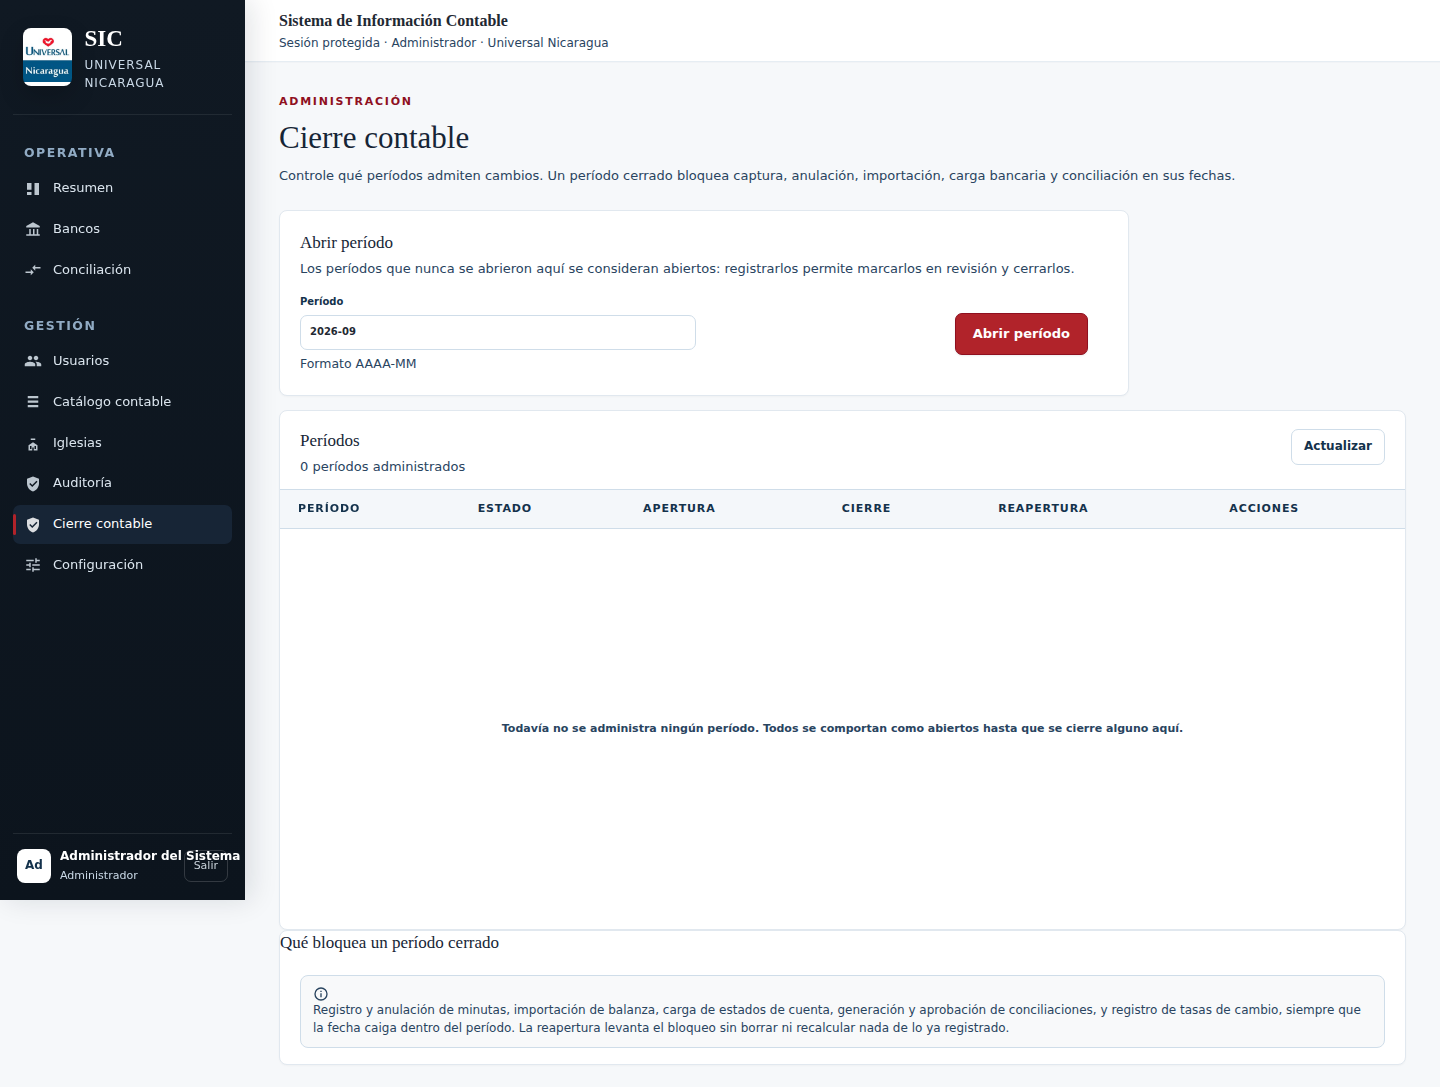
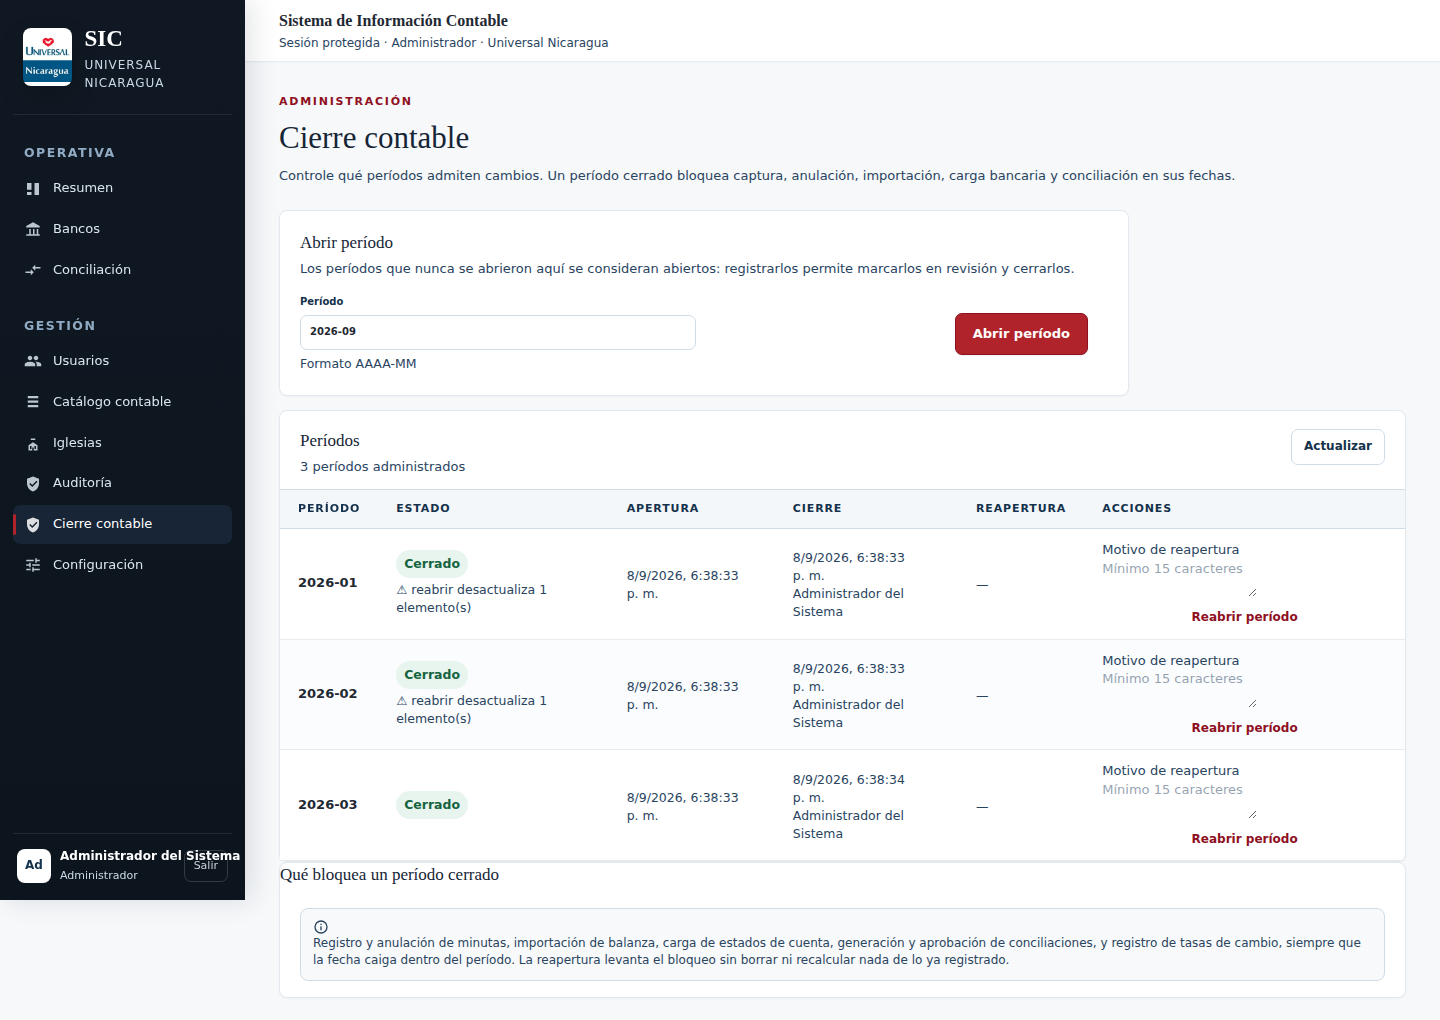
feat: advierte que queda desactualizado al reabrir un periodo
La balanza de comprobacion y el estado de situacion financiera son
archivos importados, no derivados de las minutas: reabrir un periodo
y alterarlo no los recalcula, y los periodos posteriores siguen
arrastrando las cifras viejas. El sistema no lo detectaba ni lo
señalaba.

Agrega impactoDeReapertura, que reune para un periodo cerrado las
balanzas y estados de situacion financiera de ese periodo en
adelante, los periodos posteriores todavia cerrados y las
conciliaciones aprobadas que volverian a admitir cambios.

El listado de periodos lo expone como impactosReapertura, limitado a
quien administra el cierre igual que los impedimentos. La ventana de
confirmacion de la reapertura enumera los elementos afectados, y la
fila del periodo muestra un aviso permanente con el detalle en el
title. Advierte, no bloquea: la decision sigue siendo del
administrador.

El aviso de la fila no usa la clase status porque esa regla aplica
text-transform: capitalize y deformaba el texto.

Añade una prueba contra PostgreSQL que cubre los tres tipos de
impacto y comprueba que la reapertura sigue siendo posible, y que un
periodo sin nada posterior no genera advertencias. Actualiza el
manual con la seccion 13.3 y renumera el capitulo.

Claude-Session: https://claude.ai/code/session_018Yd5DXaZMKTNaeLeKLyEZg

diff --git a/app/modules/CierreContable.tsx b/app/modules/CierreContable.tsx
@@ -1,7 +1,7 @@
 "use client";
 import { type FormEvent, useEffect, useState } from "react";
 import MenuIcon from "../components/MenuIcon";
-import { currentMonth, type ImpedimentoCierre, type PeriodoContable, type RequestConfirmation } from "../shared";
+import { currentMonth, type ImpactoReapertura, type ImpedimentoCierre, type PeriodoContable, type RequestConfirmation } from "../shared";
 
 const MOTIVO_MINIMO = 15;
 
@@ -19,6 +19,7 @@ const fechaLegible = (valor: string | null) => valor ? new Date(valor).toLocaleS
 export default function CierreContable({ notify, requestConfirmation }: { notify: (message: string) => void; requestConfirmation: RequestConfirmation }) {
   const [periodos, setPeriodos] = useState<PeriodoContable[]>([]);
   const [impedimentos, setImpedimentos] = useState<Record<string, ImpedimentoCierre[]>>({});
+  const [impactos, setImpactos] = useState<Record<string, ImpactoReapertura[]>>({});
   const [sugeridos, setSugeridos] = useState<string[]>([]);
   const [motivos, setMotivos] = useState<Record<string, string>>({});
   const [error, setError] = useState("");
@@ -29,10 +30,11 @@ export default function CierreContable({ notify, requestConfirmation }: { notify
     setLoading(true);
     try {
       const response = await fetch("/api/periodos");
-      const data = await response.json().catch(() => ({})) as { periodos?: PeriodoContable[]; impedimentos?: Record<string, ImpedimentoCierre[]>; periodosConActividad?: string[]; error?: string };
+      const data = await response.json().catch(() => ({})) as { periodos?: PeriodoContable[]; impedimentos?: Record<string, ImpedimentoCierre[]>; impactosReapertura?: Record<string, ImpactoReapertura[]>; periodosConActividad?: string[]; error?: string };
       if (!response.ok) return setError(data.error ?? "No se pudo cargar el control de períodos");
       setPeriodos(data.periodos ?? []);
       setImpedimentos(data.impedimentos ?? {});
+      setImpactos(data.impactosReapertura ?? {});
       setSugeridos(data.periodosConActividad ?? []);
       setError("");
     } catch {
@@ -98,9 +100,15 @@ export default function CierreContable({ notify, requestConfirmation }: { notify
     if (motivo.length < MOTIVO_MINIMO) {
       return setError(`Escriba el motivo de la reapertura de ${periodo} con al menos ${MOTIVO_MINIMO} caracteres antes de continuar`);
     }
+    const afectados = impactos[periodo] ?? [];
+    // La balanza y el estado de situación financiera son archivos importados: reabrir no los
+    // recalcula. Se enumeran aquí para que quien reabre sepa qué deberá reimportar después.
+    const advertencia = afectados.length
+      ? ` Quedarán desactualizados: ${afectados.map(item => `${item.motivo} — ${item.detalle}`).join(" ")}`
+      : " No hay balanzas, estados financieros ni períodos posteriores que queden desactualizados.";
     requestConfirmation({
       title: `Reabrir el período ${periodo}`,
-      message: `Se levantará el bloqueo de ${periodo} y volverá a admitir cambios contables. No se borra ni se recalcula nada de lo ya registrado. Su usuario, la fecha y el motivo quedarán en auditoría de forma permanente.`,
+      message: `Se levantará el bloqueo de ${periodo} y volverá a admitir cambios contables. No se borra ni se recalcula nada de lo ya registrado.${advertencia} Su usuario, la fecha y el motivo quedarán en auditoría de forma permanente.`,
       confirmLabel: "Reabrir período",
       isDanger: true,
       onConfirm: () => accion(periodo, "reabrir", motivo),
@@ -134,6 +142,10 @@ export default function CierreContable({ notify, requestConfirmation }: { notify
             <td>
               <span className={estadoClase(item.estado)}>{etiquetaEstado[item.estado]}</span>
               {bloqueos.length && item.estado !== "cerrado" ? <small className="status pending">{bloqueos.length} pendiente(s) para cerrar</small> : null}
+              {/* Sin la clase `status`: esa regla aplica text-transform: capitalize y deforma el texto. */}
+              {item.estado === "cerrado" && (impactos[item.periodo] ?? []).length
+                ? <small title={(impactos[item.periodo] ?? []).map(impacto => impacto.motivo).join("; ")}>⚠ reabrir desactualiza {(impactos[item.periodo] ?? []).length} elemento(s)</small>
+                : null}
             </td>
             <td><small>{fechaLegible(item.fechaApertura)}</small></td>
             <td>{item.estado === "cerrado"

diff --git a/lib/periodos.ts b/lib/periodos.ts
@@ -1,6 +1,6 @@
-import { and, asc, eq, inArray, ne, sql } from "drizzle-orm";
+import { and, asc, eq, gt, gte, inArray, ne, sql } from "drizzle-orm";
 import type { getDb } from "../db";
-import { conciliacionesBancarias, importacionesBalanza, periodosContables } from "../db/schema";
+import { conciliacionesBancarias, importacionesBalanza, importacionesSituacionFinanciera, periodosContables } from "../db/schema";
 
 type Db = ReturnType<typeof getDb>;
 
@@ -162,6 +162,61 @@ export async function reabrirPeriodo(db: Db, periodo: string, usuario: { id: str
     .where(eq(periodosContables.periodo, periodo))
     .returning();
   return fila ?? null;
+}
+
+export type ImpactoReapertura = { motivo: string; detalle: string };
+
+/**
+ * Qué queda desactualizado al reabrir un período. La balanza y el estado de situación financiera
+ * son archivos importados, no derivados de las minutas: alterar un período ya cerrado no los
+ * recalcula, y los períodos posteriores arrastran las cifras viejas. Esta función no bloquea nada;
+ * solo permite advertirlo antes de confirmar, para que la reapertura sea una decisión informada.
+ */
+export async function impactoDeReapertura(db: Db, periodo: string): Promise<ImpactoReapertura[]> {
+  const [balanzas, estadosFinancieros, posterioresCerrados, conciliaciones] = await Promise.all([
+    db.select({ periodo: importacionesBalanza.periodo, archivo: importacionesBalanza.archivoNombre })
+      .from(importacionesBalanza).where(gte(importacionesBalanza.periodo, periodo)),
+    db.select({ periodo: importacionesSituacionFinanciera.periodo, archivo: importacionesSituacionFinanciera.archivoNombre })
+      .from(importacionesSituacionFinanciera).where(gte(importacionesSituacionFinanciera.periodo, periodo)),
+    db.select({ periodo: periodosContables.periodo })
+      .from(periodosContables)
+      .where(and(gt(periodosContables.periodo, periodo), eq(periodosContables.estado, "cerrado")))
+      .orderBy(asc(periodosContables.periodo)),
+    db.select({ id: conciliacionesBancarias.id, cuenta: conciliacionesBancarias.cuentaBancariaNumero })
+      .from(conciliacionesBancarias)
+      .where(and(eq(conciliacionesBancarias.periodo, periodo), eq(conciliacionesBancarias.estado, "aprobada"))),
+  ]);
+
+  const impactos: ImpactoReapertura[] = [];
+
+  if (balanzas.length) {
+    const periodos = [...new Set(balanzas.map(fila => fila.periodo))].sort();
+    impactos.push({
+      motivo: "Balanzas de comprobación que quedarán desactualizadas",
+      detalle: `${balanzas.length} importación(es) de ${periodos.join(", ")}. Son archivos importados: no se recalculan solos. Si altera ${periodo}, vuelva a importarlas.`,
+    });
+  }
+  if (estadosFinancieros.length) {
+    const periodos = [...new Set(estadosFinancieros.map(fila => fila.periodo))].sort();
+    impactos.push({
+      motivo: "Estados de situación financiera que quedarán desactualizados",
+      detalle: `${estadosFinancieros.length} importación(es) de ${periodos.join(", ")}. Son la fuente del flujo de efectivo: reimpórtelos y regenere los reportes afectados.`,
+    });
+  }
+  if (posterioresCerrados.length) {
+    impactos.push({
+      motivo: "Períodos posteriores ya cerrados",
+      detalle: `${posterioresCerrados.map(fila => fila.periodo).join(", ")}. Siguen bloqueados y arrastran las cifras de ${periodo} anteriores al cambio. Si el ajuste los afecta, habrá que reabrirlos también.`,
+    });
+  }
+  if (conciliaciones.length) {
+    impactos.push({
+      motivo: "Conciliaciones aprobadas del período",
+      detalle: `${conciliaciones.length} conciliación(es) aprobada(s): ${conciliaciones.map(fila => fila.cuenta).join(", ")}. Volverán a admitir cambios; si toca sus minutas, deberá revisarlas y aprobarlas de nuevo.`,
+    });
+  }
+
+  return impactos;
 }
 
 /** Períodos con actividad contable registrada, para sugerir cuáles administrar. */

diff --git a/app/api/periodos/route.ts b/app/api/periodos/route.ts
@@ -1,7 +1,7 @@
 import { getDb } from "../../../db";
 import { registrarAuditoria } from "../../../lib/auditoria";
 import { jsonError, puede, usuarioDesdeRequest } from "../../../lib/auth";
-import { abrirPeriodo, esPeriodoValido, impedimentosParaCerrar, listarPeriodos, periodosConActividad } from "../../../lib/periodos";
+import { abrirPeriodo, esPeriodoValido, impactoDeReapertura, impedimentosParaCerrar, listarPeriodos, periodosConActividad } from "../../../lib/periodos";
 import { codigoPostgres } from "../../../lib/security";
 
 type PeriodoPayload = { periodo?: string };
@@ -24,10 +24,18 @@ export async function GET(request: Request) {
         periodos.filter(fila => fila.estado !== "cerrado").map(async fila => [fila.periodo, await impedimentosParaCerrar(db, fila.periodo)] as const),
       ))
       : {};
+    // Qué queda desactualizado si se reabre. Solo aplica a los períodos cerrados, que son los
+    // únicos que ofrecen la acción de reapertura.
+    const impactosReapertura = puedeAdministrar
+      ? Object.fromEntries(await Promise.all(
+        periodos.filter(fila => fila.estado === "cerrado").map(async fila => [fila.periodo, await impactoDeReapertura(db, fila.periodo)] as const),
+      ))
+      : {};
 
     return Response.json({
       periodos,
       impedimentos,
+      impactosReapertura,
       periodosConActividad: puedeAdministrar ? await periodosConActividad(db) : [],
       puedeAdministrar,
     }, { headers: { "Cache-Control": "no-store" } });

diff --git a/app/shared.ts b/app/shared.ts
@@ -8,6 +8,8 @@ export type Conciliacion = { id: string; reporteId: string; cuentaBancariaNumero
 export type EstadoPeriodo = "abierto" | "revision" | "cerrado";
 export type PeriodoContable = { periodo: string; estado: EstadoPeriodo; fechaApertura: string; fechaCierre: string | null; cerradoPor: string | null; cerradoPorNombre: string | null; reabiertoPor: string | null; reabiertoPorNombre: string | null; reabiertoEn: string | null; motivoReapertura: string | null; creadoEn: string; actualizadoEn: string };
 export type ImpedimentoCierre = { motivo: string; detalle: string };
+/** Lo que queda desactualizado al reabrir un período; se muestra antes de confirmar, no bloquea. */
+export type ImpactoReapertura = { motivo: string; detalle: string };
 /** Un período solo bloquea cuando está explícitamente cerrado; si no está en la lista, está abierto. */
 export const periodoCerrado = (periodos: PeriodoContable[], periodo: string) =>
   periodos.some(item => item.periodo === periodo && item.estado === "cerrado");

diff --git a/docs/manual-usuario.md b/docs/manual-usuario.md
@@ -42,7 +42,7 @@
 10. Cierre mensual paso a paso
 11. Conciliar una cuenta en dólares
 12. Corregir un registro ya ingresado
-13. Reabrir un período cerrado
+13. Reabrir un período cerrado — 13.1 Cuándo se justifica · 13.2 Procedimiento · 13.3 La advertencia de impacto · 13.4 Qué ocurre al reabrir · 13.5 Después de reabrir
 
 **PARTE IV — OPERACIÓN Y SOPORTE**
 14. Solución de problemas — 14.1 Antes de escalar · 14.2 Cómo leer un mensaje de error · 14.3 Acceso · 14.4 Minutas · 14.5 Estados de cuenta · 14.6 Conciliación · 14.7 Importaciones · 14.8 Períodos · 14.9 Tasas de cambio · 14.10 Administración · 14.11 Reportes · 14.12 Errores del sistema · 14.13 Escalamiento · 14.14 Qué incluir al reportar
@@ -729,7 +729,7 @@ Menú → **Cierre contable**. Controla qué períodos admiten cambios.
 
 **Qué bloquea un período cerrado:** registro y anulación de minutas, importación de balanza, carga de estados de cuenta, generación y aprobación de conciliaciones, y registro de tasas de cambio — siempre que la fecha caiga dentro del período.
 
-**Reabrir:** exige un **motivo de al menos 15 caracteres**. El procedimiento completo está en el **capítulo 13**.
+**Reabrir:** exige un **motivo de al menos 15 caracteres**. Antes de confirmar, el sistema enumera qué balanzas, estados financieros, períodos posteriores y conciliaciones aprobadas quedarán desactualizados. Es una advertencia, no un bloqueo. El procedimiento completo está en el **capítulo 13**.
 
 ---
 
@@ -1036,11 +1036,32 @@ El sistema confirma: *"Minuta anulada y registrada en auditoría"*. El asiento q
 2. Ubique el período con estado **Cerrado**.
 3. En la columna **Acciones**, escriba el **Motivo de reapertura** en el cuadro de texto. Mínimo **15 caracteres**.
 4. Presione **Reabrir período**.
-5. Lea la ventana de confirmación y confirme.
+5. **Lea la advertencia de la ventana de confirmación** antes de confirmar. Ver 13.3.
 
 El sistema informa: *"Período AAAA-MM reabierto; el motivo quedó registrado"*.
 
-### 13.3 Qué ocurre al reabrir
+### 13.3 La advertencia de impacto
+
+Antes de confirmar, el sistema enumera **qué queda desactualizado** si usted reabre el período:
+
+| Advertencia | Qué significa |
+|---|---|
+| **Balanzas de comprobación que quedarán desactualizadas** | Balanzas importadas de este período y posteriores. Son archivos importados: **no se recalculan solos** |
+| **Estados de situación financiera que quedarán desactualizados** | Son la fuente del flujo de efectivo. Habrá que reimportarlos y regenerar los reportes |
+| **Períodos posteriores ya cerrados** | Siguen bloqueados y arrastran las cifras anteriores al cambio. Si el ajuste los afecta, habrá que reabrirlos también |
+| **Conciliaciones aprobadas del período** | Volverán a admitir cambios; si toca sus minutas, deberá revisarlas y aprobarlas de nuevo |
+
+En la tabla, los períodos cerrados con impacto muestran **⚠ reabrir desactualiza N elemento(s)**.
+
+> **La advertencia informa, no bloquea.** La reapertura sigue siendo posible: la decisión es suya. Lo que el sistema garantiza es que no la tome sin conocer las consecuencias.
+
+> ### Por qué el sistema no recalcula solo
+>
+> La balanza de comprobación y el estado de situación financiera **no se derivan de las minutas**: son archivos que alguien importa. Alterar un período ya cerrado no los modifica, y los períodos posteriores siguen arrastrando las cifras viejas.
+>
+> Por eso el paso 4 de 13.4 no es opcional: **si no reimporta, el sistema queda internamente inconsistente y no vuelve a avisarlo.**
+
+### 13.4 Qué ocurre al reabrir
 
 **Sí ocurre:**
 - Se levanta el bloqueo: el período vuelve a admitir minutas, cargas, conciliaciones e importaciones.
@@ -1053,7 +1074,7 @@ El sistema informa: *"Período AAAA-MM reabierto; el motivo quedó registrado"*.
 - **No se revierten** las conciliaciones aprobadas.
 - **No se anulan** las minutas del período.
 
-### 13.4 Después de reabrir
+### 13.5 Después de reabrir
 
 1. Ejecute la corrección que motivó la reapertura.
 2. Si afectó cuentas bancarias, regenere y vuelva a aprobar la conciliación correspondiente.
